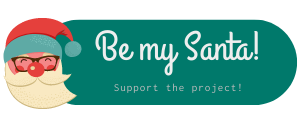
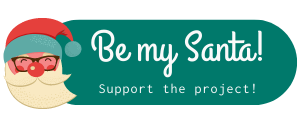
Update funding information

Changed region(s): [[0.3, 0.225, 0.9, 0.65], [0.33, 0.675, 0.87, 0.8]]

diff --git a/README.md b/README.md
@@ -12,8 +12,14 @@
     <a href="https://paypal.me/babenkoi"><img src="https://img.shields.io/badge/donate-paypal-blue"></a>
 </p>
 
+---
+
 <p align="center">
-    <a href="https://ko-fi.com/E1E86U6C0" target="_blank"><img src="support.png" alt="Support the project!" height="70"></a>
+    🎅🏻 Ho ho ho! Christmas is coming! Please consider supporting and starring the project! ⭐
+</p>
+
+<p align="center">
+    <a href="https://ko-fi.com/ivanbabenko" target="_blank"><img src="support.png" alt="Support the project!" height="80"></a>
 </p>
 
 ---
